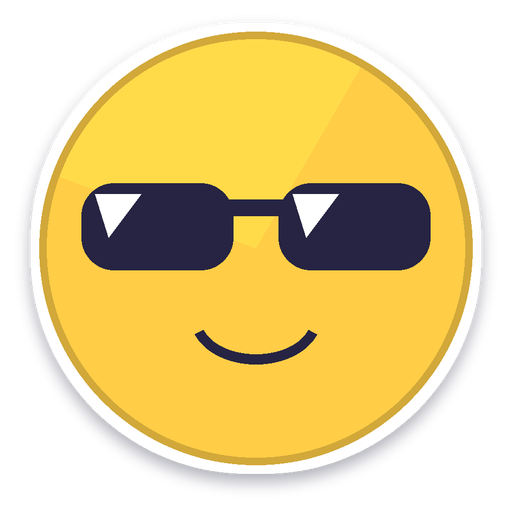
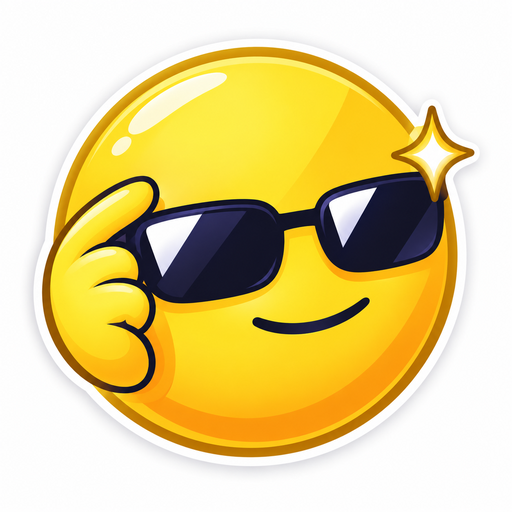
Стикер cool обновлён, дубликат requirements переименован, клавиатура уходит под размытие меню
1) stickers/mood/cool.png заменён новым изображением (512x512).
2) moderation_service/requirements.txt → requirements-moderation.txt:
   два файла с именем requirements.txt в бандле давали в Xcode
   «Multiple commands produce». Ссылка в service.py обновлена.
3) При зажатии сообщения клавиатура (отдельное системное окно, размытие
   меню её не захватывает) теперь убирается — весь экран под размытием,
   без торчащей клавиатуры. «Ответить»/«Изменить» вернут её фокусом.

Claude-Session: https://claude.ai/code/session_01Qvn6fpT3smkDUtJQyXKMXj

diff --git a/Orbita/Features/Chats/MessageActions.swift b/Orbita/Features/Chats/MessageActions.swift
@@ -685,7 +685,10 @@ struct MessageMenuPresenter<Content: View>: View {
         Color.clear
             .frame(width: 0, height: 0)
             .allowsHitTesting(false)
-            .onAppear { MessageMenuWindow.show(content) }
+            // Клавиатура живёт в отдельном системном окне, и размытие из окна меню её не затрагивает.
+            // Поэтому на открытии меню убираем клавиатуру — весь экран оказывается под размытием, без «торчащей»
+            // клавиатуры. Выбор «Ответить»/«Изменить» затем сам вернёт её (фокус по replyTo/editing).
+            .onAppear { hideKeyboard(); MessageMenuWindow.show(content) }
             .onDisappear { MessageMenuWindow.hide() }
     }
 }

diff --git a/Orbita/Server/moderation_service/service.py b/Orbita/Server/moderation_service/service.py
@@ -1,6 +1,6 @@
 """Сервис моделей для проверки изображений. Запускается отдельно от server.py:
 
-    pip install -r moderation_service/requirements.txt
+    pip install -r moderation_service/requirements-moderation.txt
     ORBITA_MOD_BACKEND=both python3 moderation_service/service.py        # порт 8090
 
 POST /check   тело — JPEG/PNG, ответ: {"verdict": "ok|review|block", "score": 0..1, "labels": {...}}
